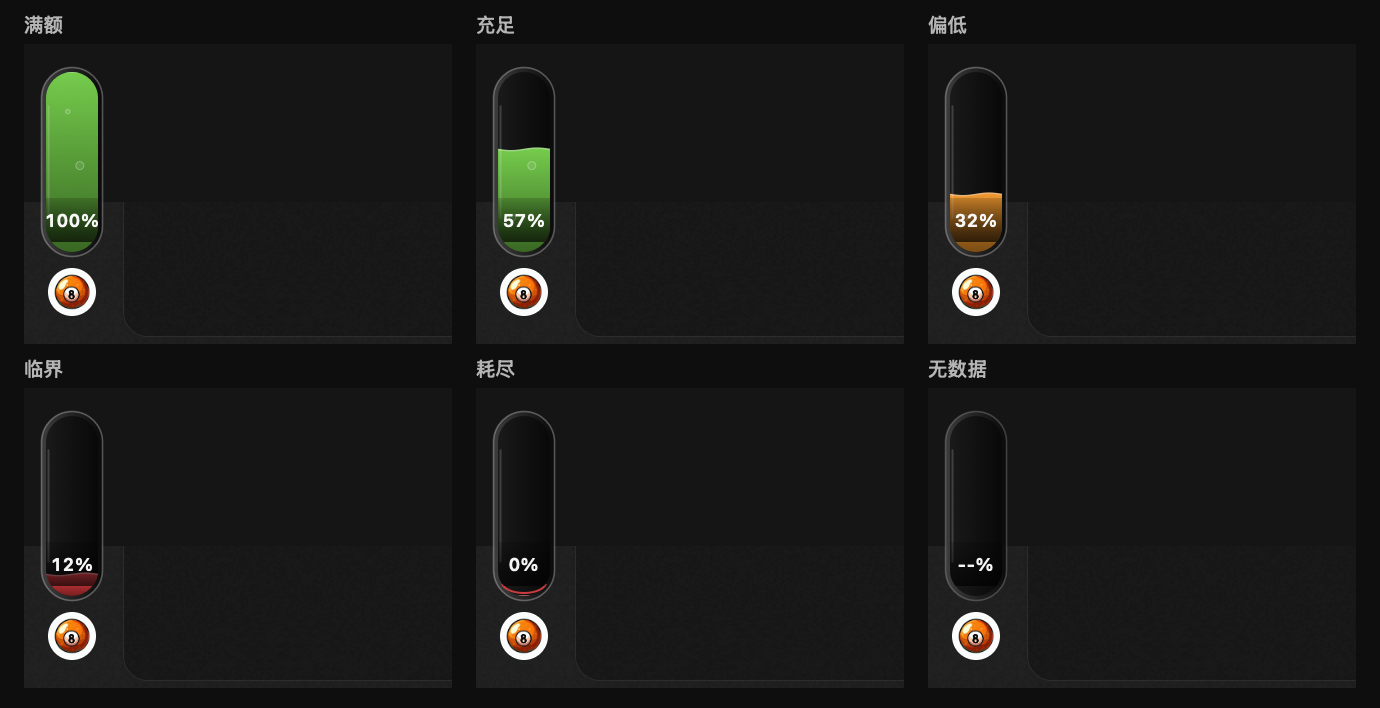
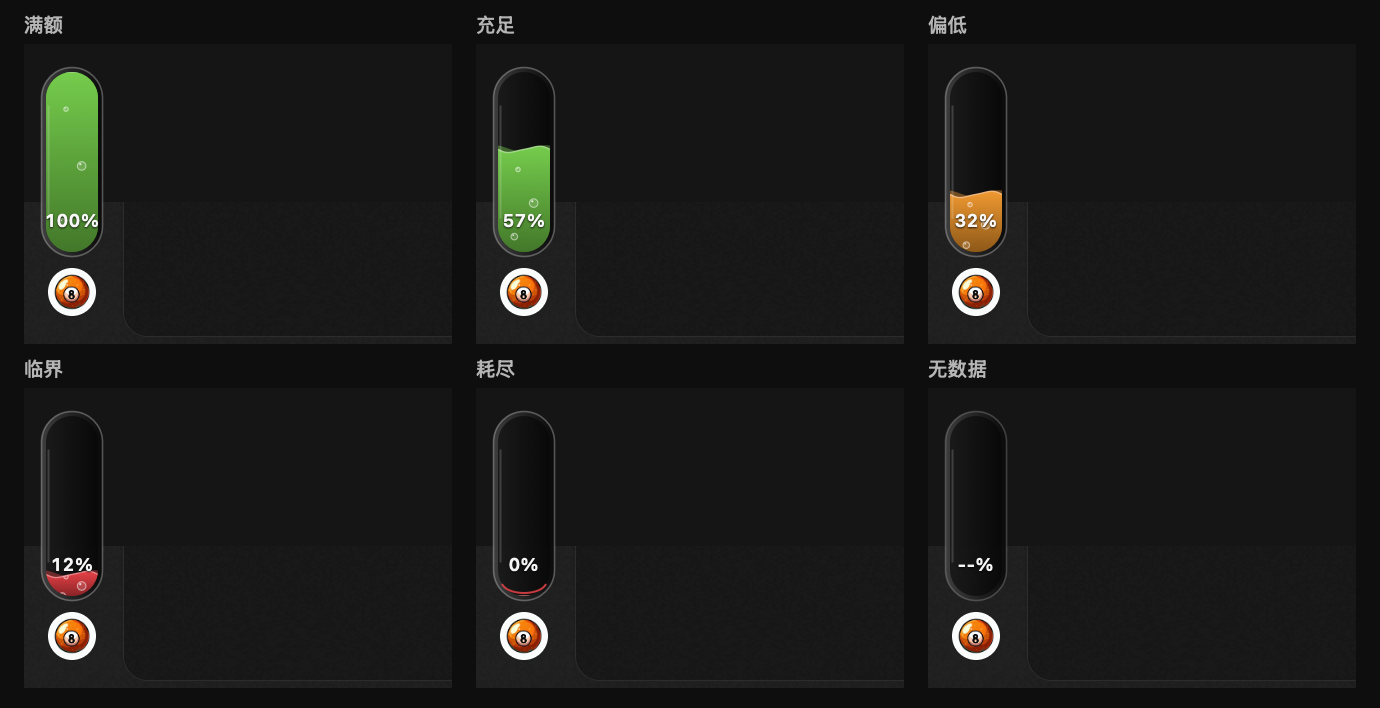
feat: refine liquid meter typography and animated state previews

diff --git a/Sources/QuotaDock/QuotaMeterView.swift b/Sources/QuotaDock/QuotaMeterView.swift
@@ -60,22 +60,37 @@ final class QuotaMeterView: NSView {
         NSGraphicsContext.saveGraphicsState()
         clip.addClip()
         let surfaceY = rect.minY + rect.height * CGFloat(percent) / 100
+        // A rear wave gives the surface depth without changing the mean quota height.
+        let rear = NSBezierPath()
+        rear.move(to: NSPoint(x: rect.minX, y: rect.minY))
+        rear.line(to: NSPoint(x: rect.maxX, y: rect.minY))
+        let amplitude: CGFloat = (1..<100).contains(percent) ? min(1.45, rect.height * CGFloat(percent) / 350) : 0
+        for step in 0...40 {
+            let fraction = Double(step) / 40
+            let wave = sin(fraction * .pi * 2 - phase + 1.1) * Double(amplitude)
+            rear.line(to: NSPoint(x: rect.maxX - CGFloat(fraction) * rect.width,
+                                 y: surfaceY + CGFloat(wave) + amplitude * 0.45))
+        }
+        rear.close()
+        liquidColor.withAlphaComponent(0.42).setFill()
+        rear.fill()
+
         let fill = NSBezierPath()
         fill.move(to: NSPoint(x: rect.minX, y: rect.minY))
         fill.line(to: NSPoint(x: rect.maxX, y: rect.minY))
         let surface = NSBezierPath()
         // Keep endpoint states exact; the zero marker is drawn separately below.
-        let amplitude: CGFloat = (1..<100).contains(percent) ? 0.65 : 0
-        for step in 0...26 {
-            let fraction = CGFloat(step) / 26
+        for step in 0...40 {
+            let fraction = CGFloat(step) / 40
             let x = rect.maxX - fraction * rect.width
-            let wave = sin(Double(fraction) * .pi * 2 + phase) * Double(amplitude)
+            let wave = (sin(Double(fraction) * .pi * 2 + phase)
+                        + 0.22 * sin(Double(fraction) * .pi * 4 - phase)) * Double(amplitude)
             let point = NSPoint(x: x, y: surfaceY + CGFloat(wave))
             fill.line(to: point)
             if step == 0 { surface.move(to: point) } else { surface.line(to: point) }
         }
         fill.close()
-        NSGradient(starting: liquidColor.blended(withFraction: 0.56, of: .black)!,
+        NSGradient(starting: liquidColor.blended(withFraction: 0.48, of: .black)!,
                    ending: liquidColor)?.draw(in: fill, angle: 90)
         liquidColor.blended(withFraction: 0.36, of: .white)!.withAlphaComponent(0.9).setStroke()
         surface.lineWidth = 0.7
@@ -84,25 +99,32 @@ final class QuotaMeterView: NSView {
         if percent > 0 {
             NSGraphicsContext.saveGraphicsState()
             fill.addClip()
-            let bubbles: [(CGFloat, Double, CGFloat)] = [(0.28, 0.19, 1.6), (0.65, 0.48, 2.0), (0.42, 0.78, 1.1)]
+            let liquidHeight = rect.height * CGFloat(percent) / 100
+            let bubbles: [(CGFloat, Double, CGFloat)] = [(0.27, 0.19, 1.65), (0.68, 0.48, 2.15), (0.43, 0.78, 1.1)]
             for (xFraction, offset, radius) in bubbles {
-                let travel = (offset + phase / 18).truncatingRemainder(dividingBy: 1)
-                let center = NSPoint(x: rect.minX + rect.width * xFraction,
-                                     y: rect.minY + rect.height * CGFloat(travel))
+                let travel = (offset + phase / (.pi * 2)).truncatingRemainder(dividingBy: 1)
+                let sway = sin(phase + offset * .pi * 2) * 1.2
+                let center = NSPoint(x: rect.minX + rect.width * xFraction + CGFloat(sway),
+                                     y: rect.minY - radius * 2 + (liquidHeight + radius * 4) * CGFloat(travel))
                 let bubble = NSBezierPath(ovalIn: NSRect(x: center.x - radius, y: center.y - radius,
                                                        width: radius * 2, height: radius * 2))
-                NSColor.white.withAlphaComponent(0.08).setFill()
+                NSColor.white.withAlphaComponent(0.12).setFill()
                 bubble.fill()
-                NSColor.white.withAlphaComponent(0.33).setStroke()
-                bubble.lineWidth = 0.45
+                NSColor.white.withAlphaComponent(0.54).setStroke()
+                bubble.lineWidth = 0.55
                 bubble.stroke()
+                let glint = NSBezierPath(ovalIn: NSRect(x: center.x - radius * 0.6,
+                                                      y: center.y + radius * 0.15,
+                                                      width: radius * 0.55, height: radius * 0.55))
+                NSColor.white.withAlphaComponent(0.72).setFill()
+                glint.fill()
             }
             NSGraphicsContext.restoreGraphicsState()
         }
         NSGraphicsContext.restoreGraphicsState()
 
         if percent == 0 {
-            // A hairline follows the lower bowl, remaining visible below the number plate.
+            // A hairline follows the lower bowl below the percentage.
             let marker = NSBezierPath()
             marker.move(to: NSPoint(x: rect.minX + 2, y: rect.minY + 6))
             marker.curve(to: NSPoint(x: rect.maxX - 2, y: rect.minY + 6),
@@ -117,20 +139,22 @@ final class QuotaMeterView: NSView {
     private func drawPercent(in rect: NSRect, clip: NSBezierPath) {
         NSGraphicsContext.saveGraphicsState()
         clip.addClip()
-        let plate = NSRect(x: rect.minX, y: rect.minY + 5, width: rect.width, height: 22)
-        NSGradient(starting: NSColor.black.withAlphaComponent(0.66),
-                   ending: NSColor.black.withAlphaComponent(0.16))?.draw(in: plate, angle: 90)
+        let shadow = NSShadow()
+        shadow.shadowColor = NSColor.black.withAlphaComponent(0.85)
+        shadow.shadowBlurRadius = 2
+        shadow.shadowOffset = NSSize(width: 0, height: -0.5)
         let text = remainingPercent.map { "\(max(0, min(100, $0)))%" } ?? "--%"
         let paragraph = NSMutableParagraphStyle()
         paragraph.alignment = .center
         let attributes: [NSAttributedString.Key: Any] = [
             .font: NSFont.monospacedDigitSystemFont(ofSize: 9, weight: .semibold),
             .foregroundColor: NSColor.white.withAlphaComponent(0.96),
-            .paragraphStyle: paragraph
+            .paragraphStyle: paragraph,
+            .shadow: shadow
         ]
         let string = NSAttributedString(string: text, attributes: attributes)
         let height = string.size().height
-        string.draw(in: NSRect(x: rect.minX - 1, y: plate.midY - height / 2,
+        string.draw(in: NSRect(x: rect.minX - 1, y: rect.minY + 16 - height / 2,
                               width: rect.width + 2, height: height))
         NSGraphicsContext.restoreGraphicsState()
     }

diff --git a/scripts/state-preview.swift b/scripts/state-preview.swift
@@ -3,44 +3,55 @@ import AppKit
 let reference = NSImage(contentsOfFile: CommandLine.arguments[2])!
 reference.size = NSSize(width: 214, height: 71)
 let canvas = NSSize(width: 690, height: 354)
-let bitmap = NSBitmapImageRep(bitmapDataPlanes: nil,
-    pixelsWide: Int(canvas.width * 2), pixelsHigh: Int(canvas.height * 2),
-    bitsPerSample: 8, samplesPerPixel: 4, hasAlpha: true, isPlanar: false,
-    colorSpaceName: .deviceRGB, bytesPerRow: 0, bitsPerPixel: 0)!
-let context = NSGraphicsContext(bitmapImageRep: bitmap)!
-NSGraphicsContext.saveGraphicsState()
-NSGraphicsContext.current = context
-context.cgContext.scaleBy(x: 2, y: 2)
-NSColor(srgbRed: 0.055, green: 0.055, blue: 0.055, alpha: 1).setFill()
-NSBezierPath(rect: NSRect(origin: .zero, size: canvas)).fill()
-let states: [(String, Int?)] = [
-    ("满额", 100), ("充足", 57), ("偏低", 32),
-    ("临界", 12), ("耗尽", 0), ("无数据", nil)
-]
-for (index, state) in states.enumerated() {
-    let x = CGFloat(12 + (index % 3) * 226)
-    let y = CGFloat(182 - (index / 3) * 172)
-    (state.0 as NSString).draw(at: NSPoint(x: x, y: y + 153), withAttributes: [
-        .font: NSFont.systemFont(ofSize: 10, weight: .medium),
-        .foregroundColor: NSColor(calibratedWhite: 0.65, alpha: 1)
-    ])
+func render(phase: Double, destination: String) throws {
+    let bitmap = NSBitmapImageRep(bitmapDataPlanes: nil,
+        pixelsWide: Int(canvas.width * 2), pixelsHigh: Int(canvas.height * 2),
+        bitsPerSample: 8, samplesPerPixel: 4, hasAlpha: true, isPlanar: false,
+        colorSpaceName: .deviceRGB, bytesPerRow: 0, bitsPerPixel: 0)!
+    let context = NSGraphicsContext(bitmapImageRep: bitmap)!
     NSGraphicsContext.saveGraphicsState()
-    (AffineTransform(translationByX: x, byY: y) as NSAffineTransform).concat()
-    NSColor(srgbRed: 0.082, green: 0.082, blue: 0.082, alpha: 1).setFill()
-    NSBezierPath(rect: NSRect(x: 0, y: 0, width: 214, height: 150)).fill()
-    reference.draw(in: NSRect(x: 0, y: 0, width: 214, height: 71))
-    // Replace the previous horizontal overlay with clean pixels from the same main pane.
-    reference.draw(in: NSRect(x: 95, y: 9, width: 64, height: 29),
-                   from: NSRect(x: 167, y: 9, width: 40, height: 29),
-                   operation: .copy, fraction: 1)
-    let view = QuotaMeterView(frame: NSRect(origin: .zero, size: QuotaMeterView.size))
-    view.remainingPercent = state.1
-    view.phase = 0
-    (AffineTransform(translationByX: 8, byY: 43) as NSAffineTransform).concat()
-    view.draw(view.bounds)
+    NSGraphicsContext.current = context
+    context.cgContext.scaleBy(x: 2, y: 2)
+    NSColor(srgbRed: 0.055, green: 0.055, blue: 0.055, alpha: 1).setFill()
+    NSBezierPath(rect: NSRect(origin: .zero, size: canvas)).fill()
+    let states: [(String, Int?)] = [
+        ("满额", 100), ("充足", 57), ("偏低", 32),
+        ("临界", 12), ("耗尽", 0), ("无数据", nil)
+    ]
+    for (index, state) in states.enumerated() {
+        let x = CGFloat(12 + (index % 3) * 226)
+        let y = CGFloat(182 - (index / 3) * 172)
+        (state.0 as NSString).draw(at: NSPoint(x: x, y: y + 153), withAttributes: [
+            .font: NSFont.systemFont(ofSize: 10, weight: .medium),
+            .foregroundColor: NSColor(calibratedWhite: 0.65, alpha: 1)
+        ])
+        NSGraphicsContext.saveGraphicsState()
+        (AffineTransform(translationByX: x, byY: y) as NSAffineTransform).concat()
+        NSColor(srgbRed: 0.082, green: 0.082, blue: 0.082, alpha: 1).setFill()
+        NSBezierPath(rect: NSRect(x: 0, y: 0, width: 214, height: 150)).fill()
+        reference.draw(in: NSRect(x: 0, y: 0, width: 214, height: 71))
+        // Replace the previous horizontal overlay with clean pixels from the same main pane.
+        reference.draw(in: NSRect(x: 95, y: 9, width: 64, height: 29),
+                       from: NSRect(x: 167, y: 9, width: 40, height: 29),
+                       operation: .copy, fraction: 1)
+        let view = QuotaMeterView(frame: NSRect(origin: .zero, size: QuotaMeterView.size))
+        view.remainingPercent = state.1
+        view.phase = phase
+        (AffineTransform(translationByX: 8, byY: 43) as NSAffineTransform).concat()
+        view.draw(view.bounds)
+        NSGraphicsContext.restoreGraphicsState()
+    }
     NSGraphicsContext.restoreGraphicsState()
+    try bitmap.representation(using: .png, properties: [:])!
+        .write(to: URL(fileURLWithPath: destination))
 }
-NSGraphicsContext.restoreGraphicsState()
-try bitmap.representation(using: .png, properties: [:])!
-    .write(to: URL(fileURLWithPath: CommandLine.arguments[1]))
+
+if CommandLine.arguments.count > 3 && CommandLine.arguments[3] == "--frames" {
+    for frame in 0..<72 {
+        let destination = CommandLine.arguments[1] + String(format: "/frame-%03d.png", frame)
+        try render(phase: Double(frame) / 72 * .pi * 4, destination: destination)
+    }
+} else {
+    try render(phase: 0, destination: CommandLine.arguments[1])
+}
 print(CommandLine.arguments[1])

diff --git a/README.md b/README.md
@@ -23,6 +23,10 @@ Swift/AppKit 独立 macOS 额度悬浮徽标，当前版本 **2.1（build 12）*
 
 在项目根目录执行 `./scripts/render-states.sh` 可重新生成 3.0 状态图，不读取会话、不写额度缓存，也不启动悬浮窗。
 
+![QuotaDock 3.0 液面与气泡动画预览](docs/images/quota-motion-v3.gif)
+
+安装 FFmpeg 后，执行 `./scripts/render-states.sh --animate` 可导出六秒循环动图。动图使用生产 View 的相位变化，尚未接入真实窗口的动画时钟。
+
 ## 开发与构建
 
 需要 macOS 11+、Apple Command Line Tools 或 Xcode，Swift 5.3+。直接使用 `swiftc`，不要求完整 Xcode 或 XCTest runtime；无第三方依赖。
